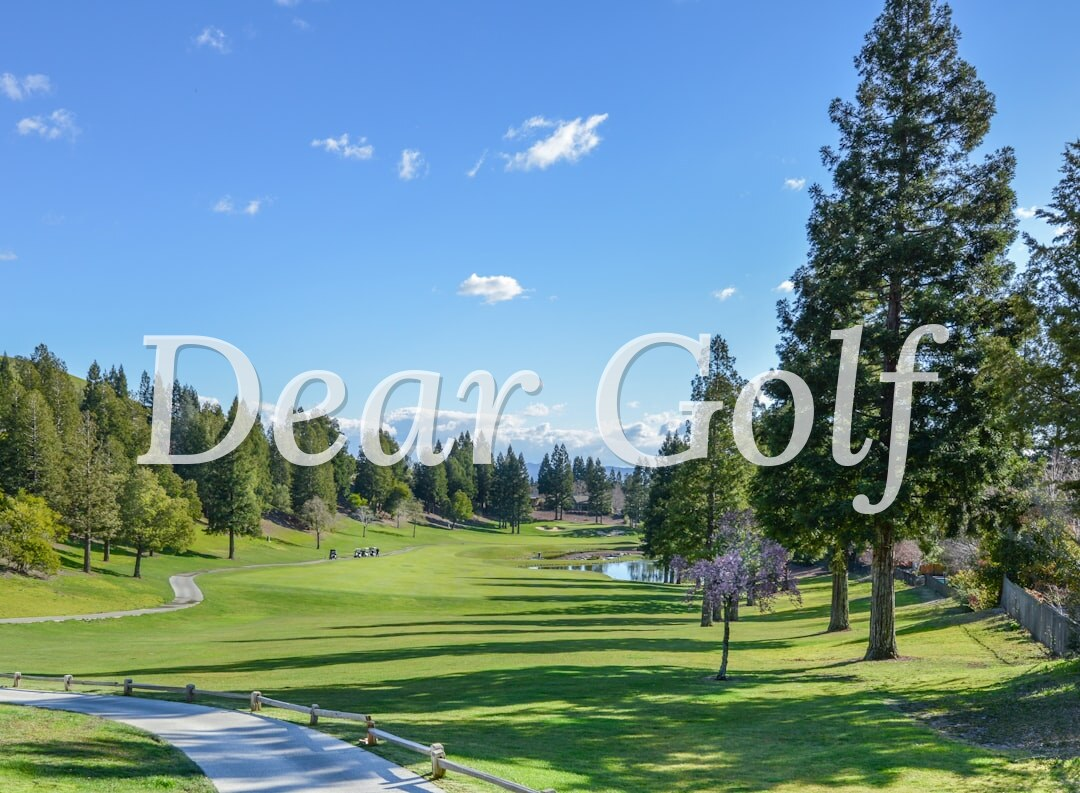
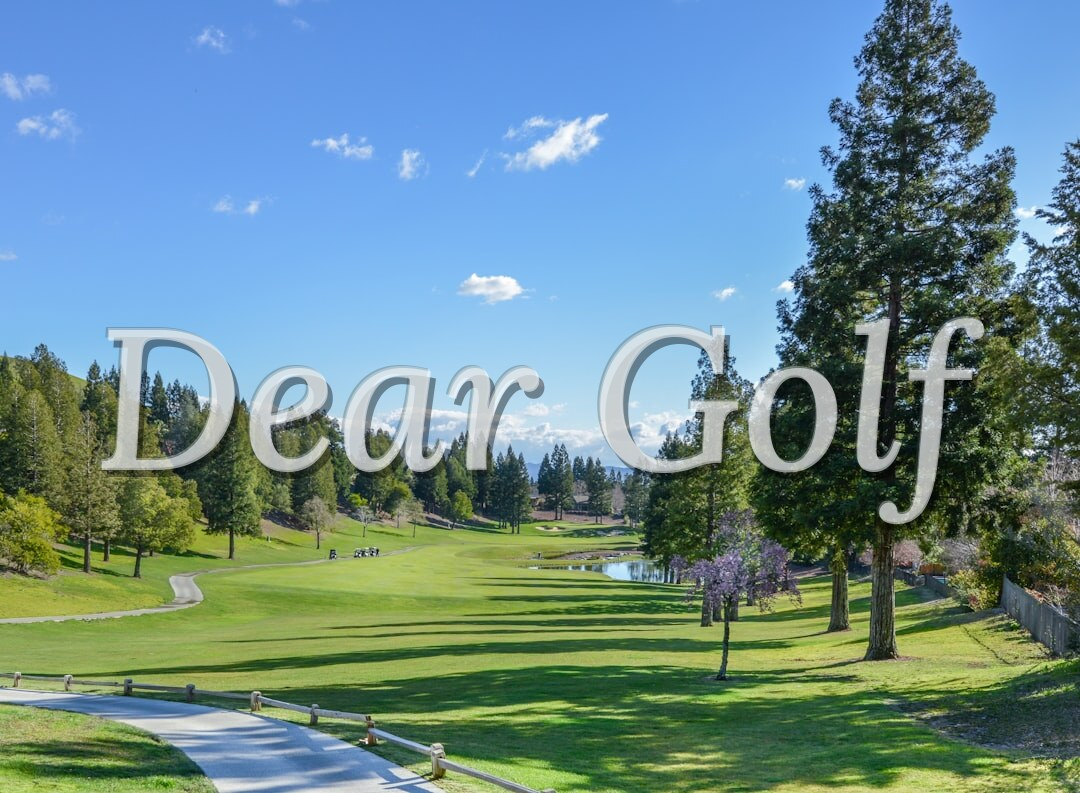
style(invite): 카카오 폴백/링크 미리보기 워터마크 개선 + 폴백 연결
- hero-invite.jpg: 워터마크 글씨 키움(200pt)·더 투명(0.52)·입체 양각(그림자+하이라이트 3겹, ImageMagick)
- invite.js: 카카오 카드 폴백 이미지 hero.jpg→hero-invite.jpg(업로드 실패 시에도 브랜딩 유지)

[[invite-deeplink-system]]

Changed region(s): [[0.55, 0.3934, 0.9167, 0.6658], [0.0917, 0.3934, 0.5194, 0.6053]]

diff --git a/src/utils/invite.js b/src/utils/invite.js
@@ -61,7 +61,7 @@ export async function shareRoundupKakao(post, imageUrl) {
   const content = {
     title: isInvite ? '💌 라운딩에 초대합니다' : '🏌 라운딩 동반자 모집',
     description: desc,
-    imageUrl: imageUrl || 'https://deargolf.app/hero.jpg',
+    imageUrl: imageUrl || 'https://deargolf.app/hero-invite.jpg', // 폴백도 워터마크 버전(브랜딩 유지)
     link: { webUrl: url, mobileWebUrl: url },
   };
   try {
